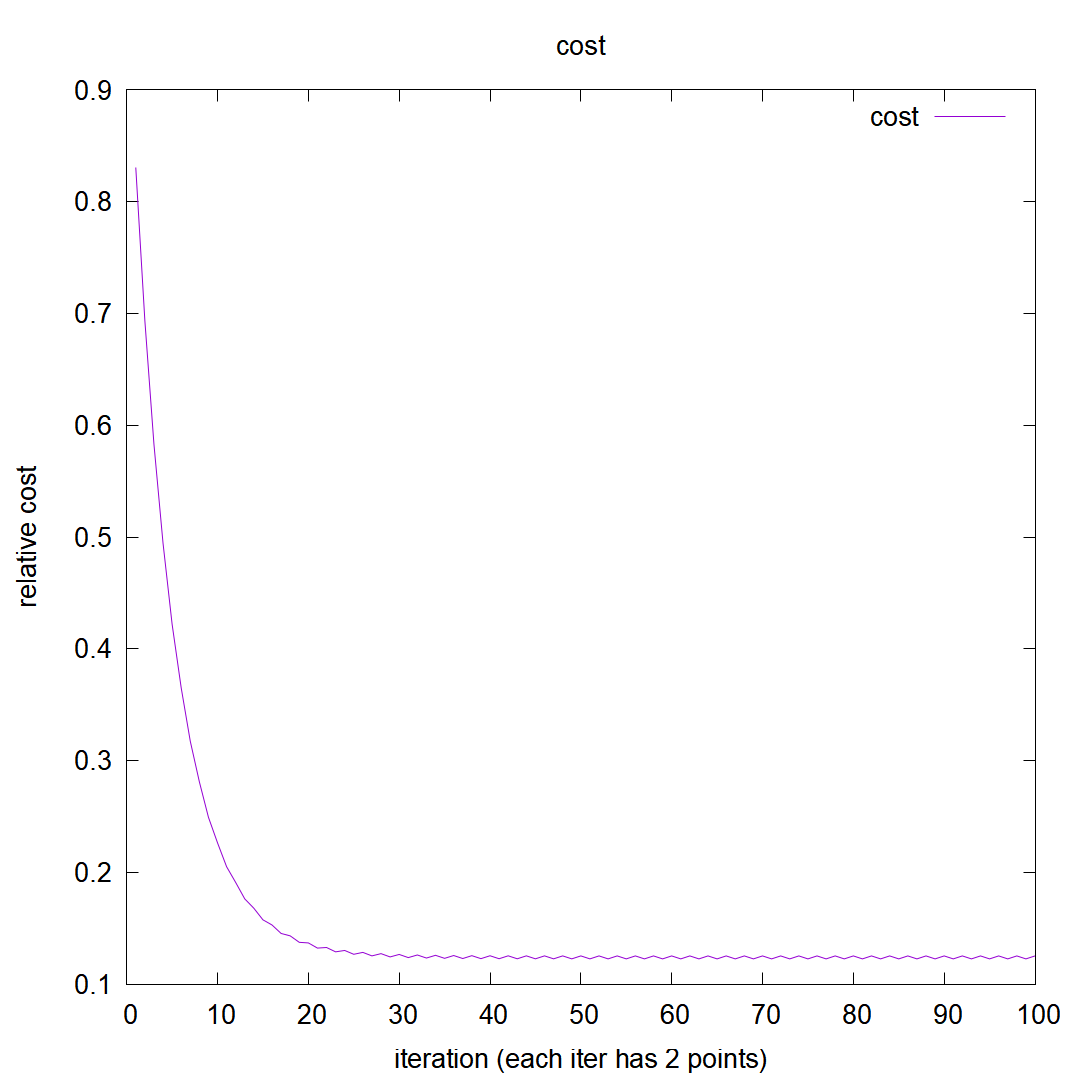
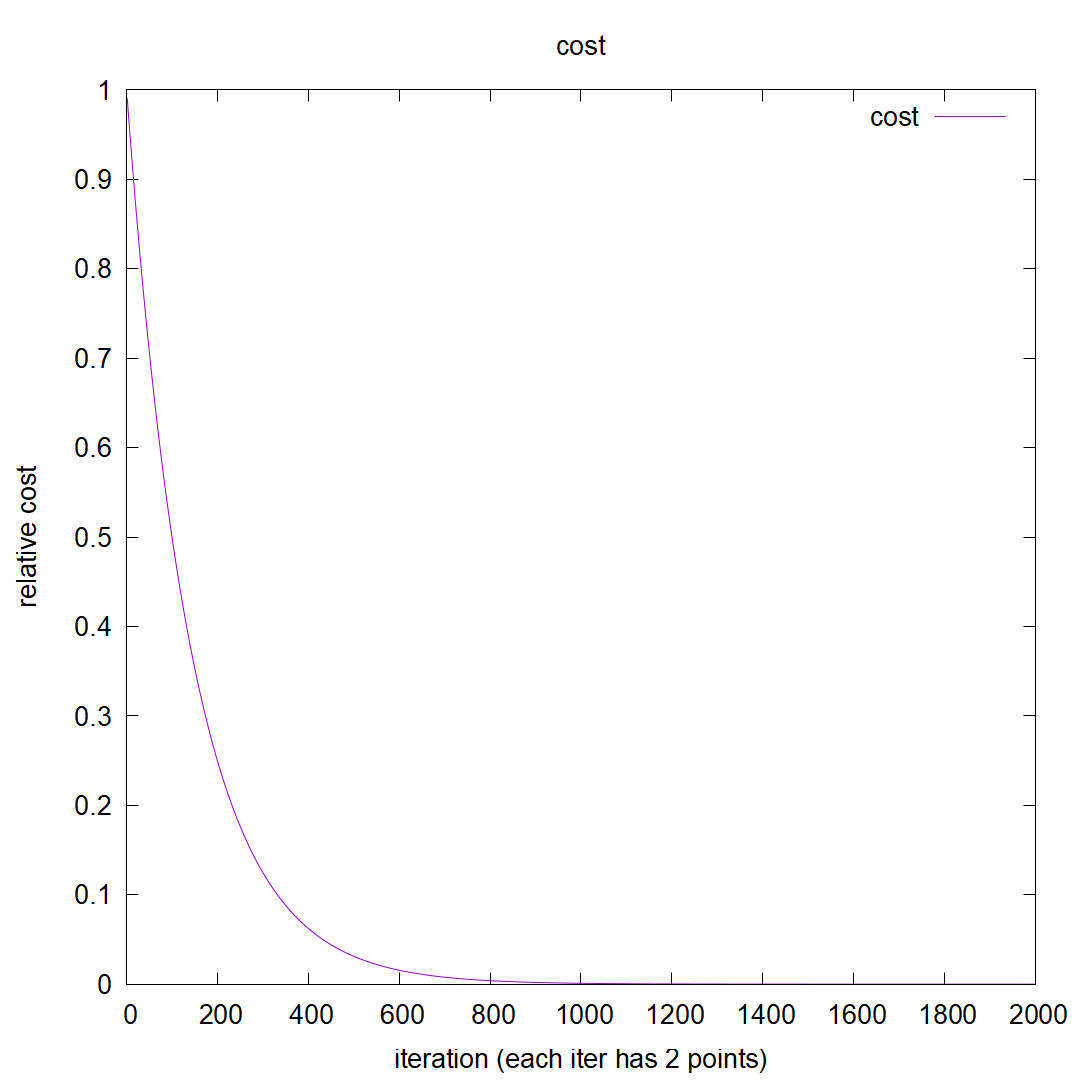
temp update

diff --git a/src/hw4/lib/iter.c b/src/hw4/lib/iter.c
@@ -57,9 +57,9 @@ void iter_history_iterate(iter_history_t* iter_history, config_t* config, config
         c1 = -(*config_lines)[i].line_param3;
         a2 = -(*config_lines)[i].line_param2;
         b2 = (*config_lines)[i].line_param1;
-        c2 = iter_history->x[iter_history->cnt - 1] * a2 + iter_history->y[iter_history->cnt - 1] * b2;
+        c2 = -(iter_history->x[iter_history->cnt - 1] * a2 + iter_history->y[iter_history->cnt - 1] * b2);
         d2_intersection(a1, b1, c1, a2, b2, c2, &d2_point);
-        if (config->dynamic_step == true){
+        if (config->dynamic_step == false){
             step_normalize_coeff = config->initial_step / sqrt(pow(d2_point.x - iter_history->x[iter_history->cnt - 1], 2) + pow(d2_point.y - iter_history->y[iter_history->cnt - 1], 2));
         } else {
             step_normalize_coeff = config->initial_step;

diff --git a/src/hw4/lib/config_read.h b/src/hw4/lib/config_read.h
@@ -41,6 +41,7 @@ typedef struct {
     double initial_y;                           ///< initial y
     int    max_iter;                            ///< maximum number of iterations (needs to be smaller than MAX_POINT_CNT defined in iter.h)
     bool   show_progress;                       ///< show progress or not
+    bool debug_mode;                            ///< show debug info or not
     char*  font[CONFIG_SET_MAX_SIZE];           ///< font
     char*  output_file[CONFIG_SET_MAX_SIZE];    ///< output file name
     char*  iter_img[CONFIG_SET_MAX_SIZE];       ///< iteration image file name (stores all points)

diff --git a/src/hw4/lib/config_read.c b/src/hw4/lib/config_read.c
@@ -23,7 +23,7 @@ void config_read_status_print(int config_read_status, char *message){
 
 void config_init(config_t *config){
     config->initial_step = 0.1;
-    config->dynamic_step = false;
+    config->dynamic_step = true;
     config->line_cnt = 2;
     config->initial_x = 0.0;
     config->initial_y = 0.0;
